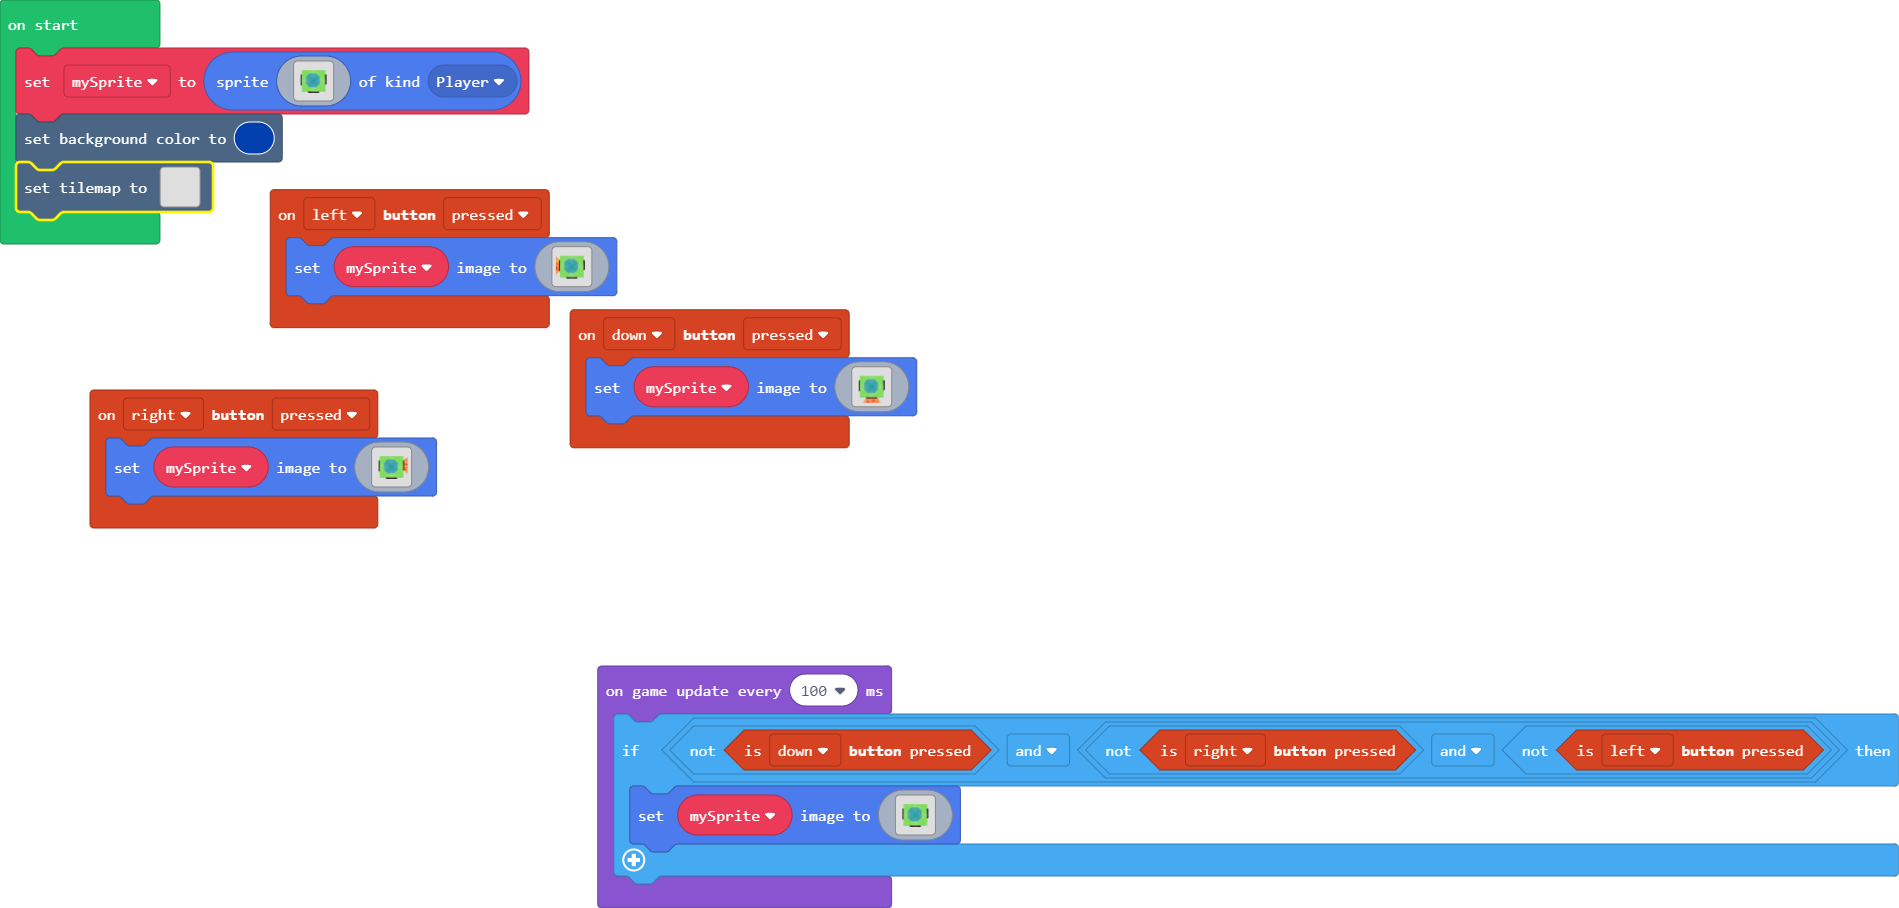
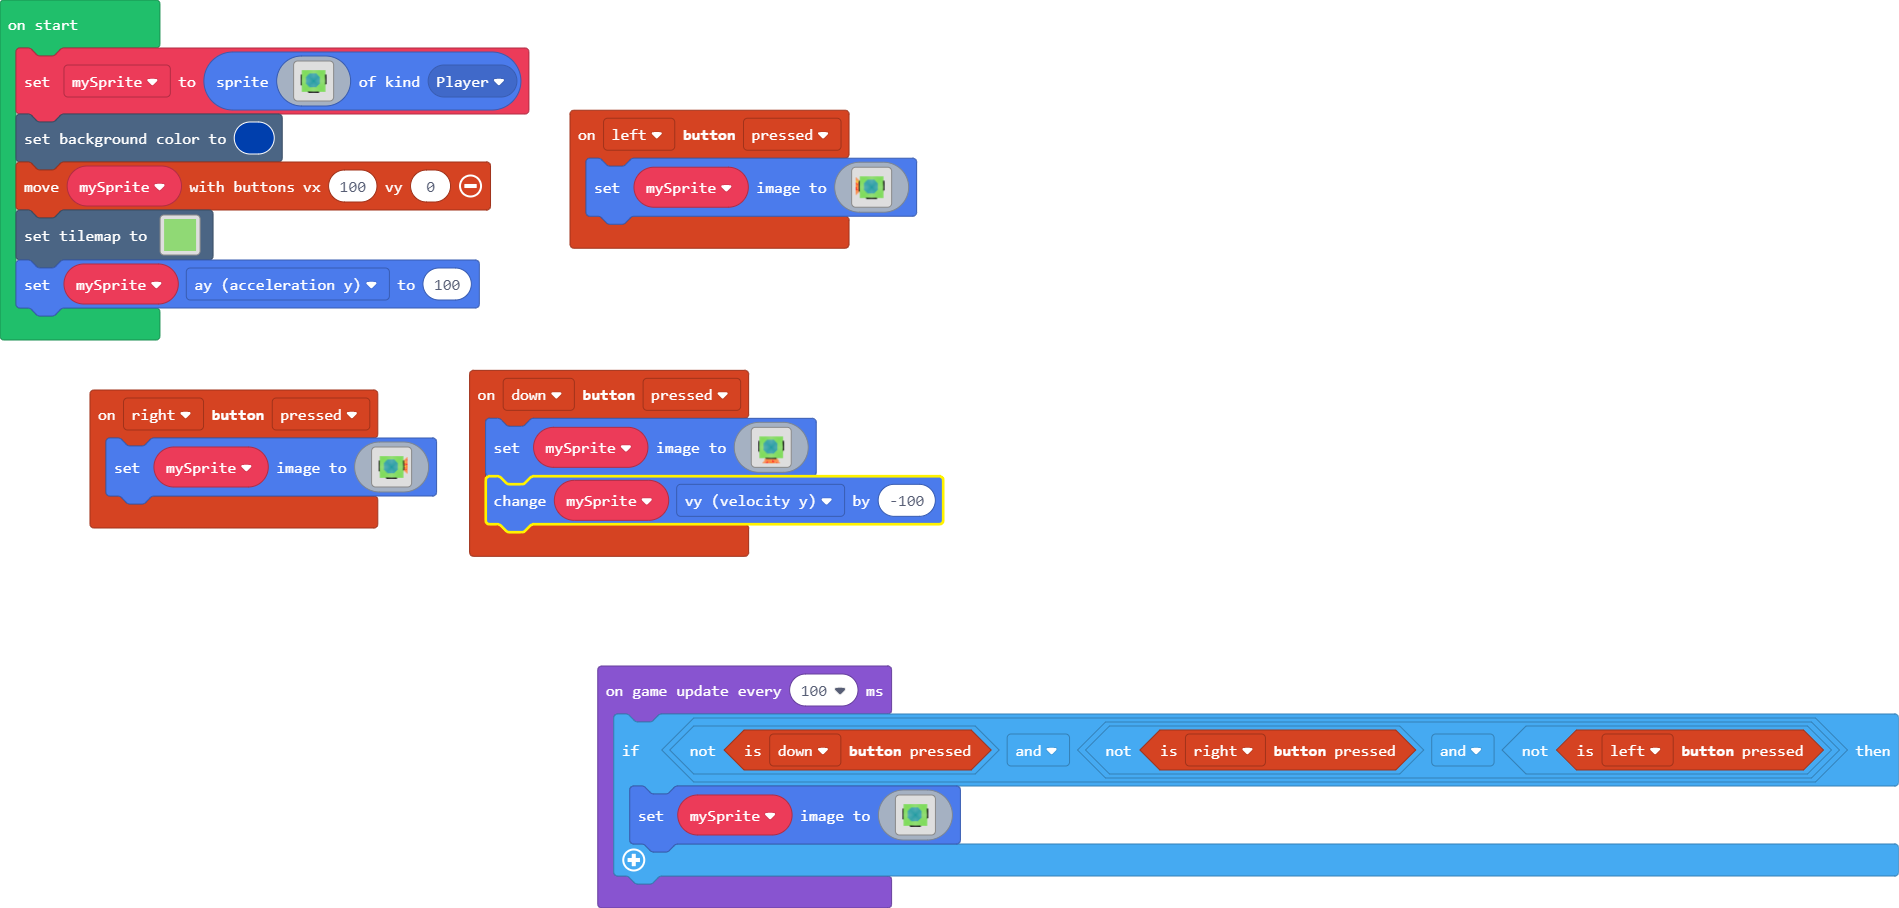
d

Changed region(s): [[0.0, 0.0925, 0.4971, 0.6167]]

diff --git a/main.ts b/main.ts
@@ -1,3 +1,24 @@
+namespace myTiles {
+    //% blockIdentity=images._tile
+    export const tile0 = img`
+. . . . . . . . . . . . . . . . 
+. . . . . . . . . . . . . . . . 
+. . . . . . . . . . . . . . . . 
+. . . . . . . . . . . . . . . . 
+. . . . . . . . . . . . . . . . 
+. . . . . . . . . . . . . . . . 
+. . . . . . . . . . . . . . . . 
+. . . . . . . . . . . . . . . . 
+. . . . . . . . . . . . . . . . 
+. . . . . . . . . . . . . . . . 
+. . . . . . . . . . . . . . . . 
+. . . . . . . . . . . . . . . . 
+. . . . . . . . . . . . . . . . 
+. . . . . . . . . . . . . . . . 
+. . . . . . . . . . . . . . . . 
+. . . . . . . . . . . . . . . . 
+`
+}
 controller.left.onEvent(ControllerButtonEvent.Pressed, function () {
     mySprite.setImage(img`
 . . . . . . . . . . . . . . . . . . . . . . . . . . . . . . 
@@ -65,6 +86,7 @@ controller.down.onEvent(ControllerButtonEvent.Pressed, function () {
 . . . . . . . . 4 4 4 2 4 4 4 4 2 2 4 4 4 4 . . . . . . . . 
 . . . . . . . 4 4 4 2 2 4 4 4 4 4 4 4 4 2 4 4 . . . . . . . 
 `)
+    mySprite.vy += -100
 })
 controller.right.onEvent(ControllerButtonEvent.Pressed, function () {
     mySprite.setImage(img`
@@ -134,8 +156,9 @@ mySprite = sprites.create(img`
 . . . . . . . . . . . . . . . . . . . . . . . . . . . . . . 
 `, SpriteKind.Player)
 scene.setBackgroundColor(8)
+controller.moveSprite(mySprite, 100, 0)
 tiles.setTilemap(tiles.createTilemap(
-            hex`1000100000000000000000000000000000000000000000000000000000000000000000000000000000000000000000000000000000000000000000000000000000000000000000000000000000000000000000000000000000000000000000000000000000000000000000000000000000000000000000000000000000000000000000000000000000000000000000000000000000000000000000000000000000000000000000000000000000000000000000000000000000000000000000000000000000000000000000000000000000000000000000000000000000000000000000000000000000000000000000000000000000000000000000000000000000000000`,
+            hex`1000100001010101010101010101010101010101010101010101010101010101010101010101010101010101010101010101010101010101010101010101010101010101010101010101010101010101010101010101010101010101010101010101010101010101010101010101010101010101010101010101010101010101010101010101010101010101010101010101010101010101010101010101010101010101010101010101010101010101010101010101010101010101010101010101010101010101010101010101010101010101010101010101010101010101010101010101010101010101010101010101010101010101010101010101010101010101`,
             img`
 . . . . . . . . . . . . . . . . 
 . . . . . . . . . . . . . . . . 
@@ -154,9 +177,10 @@ tiles.setTilemap(tiles.createTilemap(
 . . . . . . . . . . . . . . . . 
 . . . . . . . . . . . . . . . . 
 `,
-            [],
+            [myTiles.tile0,sprites.castle.tileGrass2],
             TileScale.Sixteen
         ))
+mySprite.ay = 100
 game.onUpdateInterval(100, function () {
     if (!(controller.down.isPressed()) && (!(controller.right.isPressed()) && !(controller.left.isPressed()))) {
         mySprite.setImage(img`
